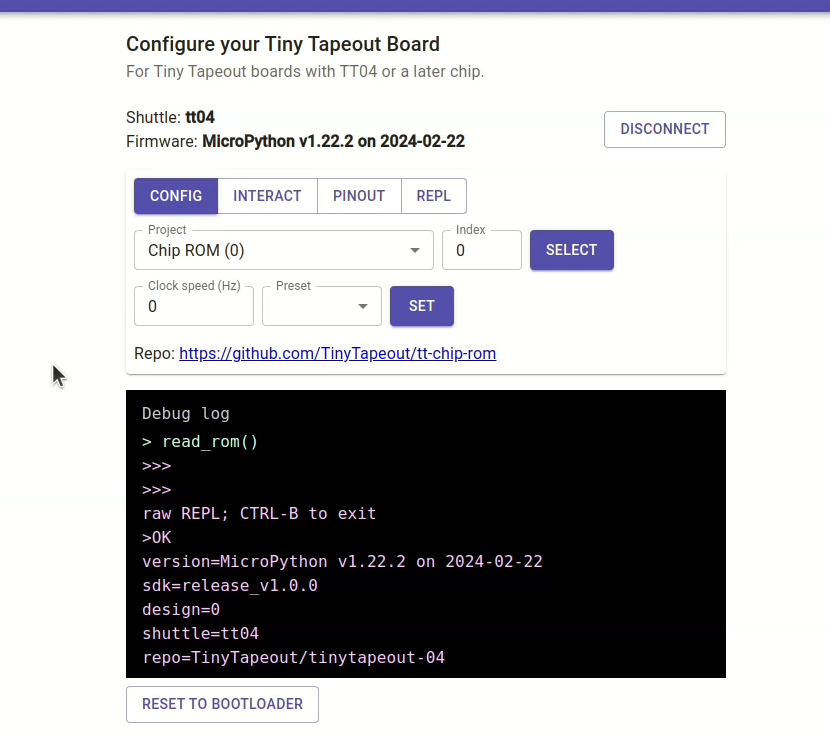
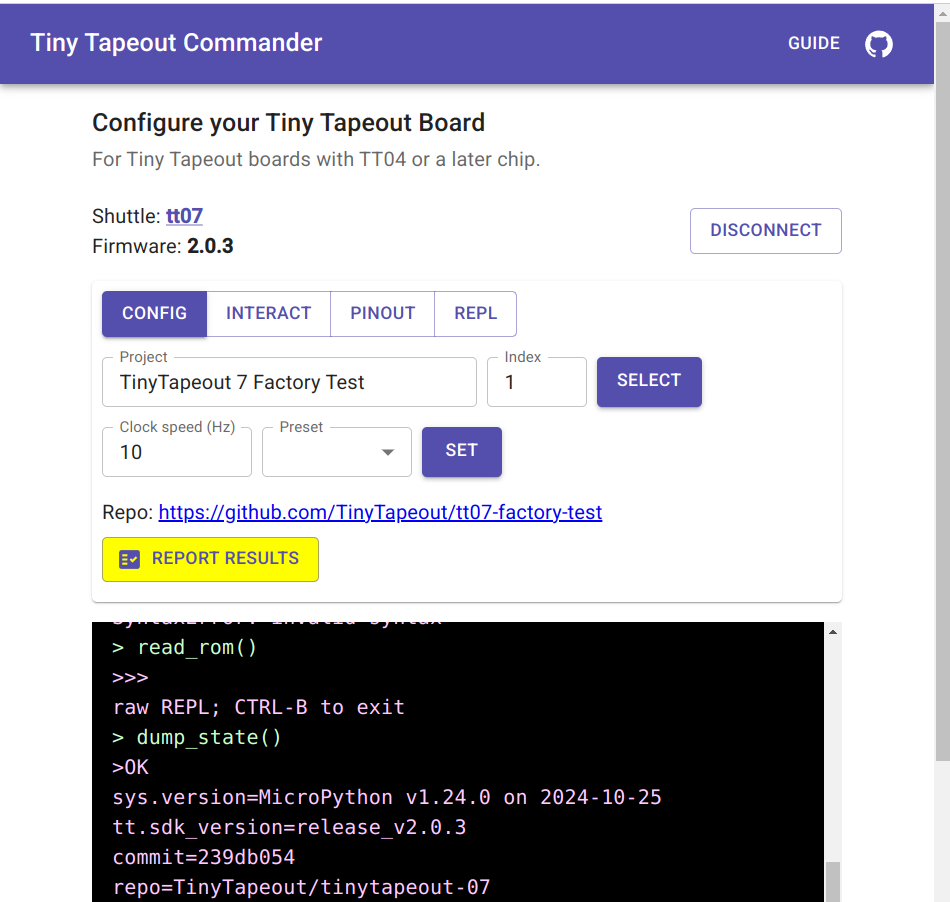
Refresh of stale wording and imagery for getting started guide

diff --git a/content/guides/get-started-demoboard/_index.md b/content/guides/get-started-demoboard/_index.md
@@ -6,7 +6,6 @@ weight: 50
 ---
 
 
-
 If you've got hold of a TinyTapeout 04/05/06/07 ASIC and demoboard, this quickstart guide will get you going by walking through:
 
  * overview and bring-up;
@@ -14,7 +13,7 @@ If you've got hold of a TinyTapeout 04/05/06/07 ASIC and demoboard, this quickst
  * accessing and using the microPython SDK and filesystem; and
  * easy updates to the OS and SDK.
  
-There's a little video that goes through much of this so you can see it in action
+Here's a little video that goes through much of this so you can see it in action (the board shape has changed a bit since it was recorded, but the functionality is quite similar)
 
 {{< youtube dSuhCZxXQcw >}}
 
@@ -22,23 +21,22 @@ There's a little video that goes through much of this so you can see it in actio
 
 ### Overview and bring-up
 
-
-{{< figure src="images/tt04db-render.png" title="TT04 demoboard" >}}
-
-
-The TT04 ASIC includes [143 different digital designs](https://tinytapeout.com/runs/tt04/#all-projects), any of which may be *enabled* so that you can send and receive information to it using whichever combination of the
+The Tiny Tapeout ASICs include hundreds of different designs--[143 on TT04](https://tinytapeout.com/runs/tt04/#all-projects) and [369 on TT09](https://tinytapeout.com/runs/tt09/)--any of which present on the chip you have may be *enabled* so that you can send and receive information to it using whichever combination of the
 
  * 8 input;
- * 8 output; and
+ * 8 output;
  * 8 bi-directional 
 
-pins that specific project is using.
+pins that specific project is using.  Since [TT06](https://tinytapeout.com/runs/tt06/), there are also up to 6 [analog](https://tinytapeout.com/specs/analog/) support for analog and mixed signal, users.
+
+
+{{< figure src="images/tt07db.jpg" title="TT07 demoboard" >}}
 
 The ASIC comes installed on a [carrier PCB](https://github.com/tinytapeout/breakout-pcb) which is itself installed on the [TT Demoboard](https://github.com/TinyTapeout/tt-demo-pcb#tinytapeout-demo-board)
 
-The demoboard is designed to allow for interaction with design either through the on-board input DIP switches and 7-segment display, or with external circuits through the various pin headers and PMODs on the board. Having the ASIC on a carrier, rather than directly on the demoboard, leaves the adventurous free to design their own custom PCB and easily migrate the chip.
+The demoboard is designed to allow for interaction with design either through the on-board input DIP switches and 7-segment display, or with external circuits through the various pin and PMOD headers on the board. Having the ASIC on a carrier, rather than directly on the demoboard, leaves the adventurous free to design their own custom PCB and easily migrate the chip.
 
-The demoboard has a number of headers for interaction and expansion.  The "PMODs" follow the [digilent PMOD spec and spacing](https://digilent.com/reference/pmod/start) and make it pretty simple to create extensions to interact with designs.
+The demoboard has a number of headers for interaction and expansion.  The "PMODs" follow the [digilent PMOD spec and spacing](https://digilent.com/reference/pmod/start) and make it pretty simple to create extensions to interact with designs.  Some of these, like for [VGA Output](https://tinytapeout.com/specs/pinouts/#vga-output), [Gamepad Controllers](https://tinytapeout.com/specs/pinouts/#vga-output) are listed on the [pinout specs](https://tinytapeout.com/specs/pinouts/) page.
 
 ## Power
 
@@ -50,9 +48,9 @@ All the I/O expects 3.3V logic levels, so the 5V coming in through the USB recep
 
 After inspecting the boards for damage, and ensuring the carrier board is well seated on the demoboard, give the system 5V through the USB connector.
 
-Operating normally, the power LEDs on the top right of the demoboard will light up (though the 1v8 may be a bit dim), and the letter "t" will hold on the 7-segment for a moment, then go through a speedy little sequence and finally start toggling the segments in a binary counter dance (see the video for an example).
+Operating normally, the power LEDs on the top right of the demoboard will light up, and the letter "t" will hold on the 7-segment for a moment, then go through a speedy little sequence and finally start toggling the segments in a binary counter dance (see the video for an example).
 
-This is the [factory test](https://tinytapeout.com/runs/tt04/001/) project, loaded by default, being ticked and shows the system is alive.
+This is the [factory test](https://tinytapeout.com/runs/tt07/tt_um_factory_test) project, loaded by default, being ticked and shows the system is alive.
 
 If you have a way to monitor power use, you should see a draw of around 180-200 milliAmps, on the 5V supply and not much more.
 
@@ -61,9 +59,9 @@ If you have a way to monitor power use, you should see a draw of around 180-200 
 
 Maybe you'd like to enable a project other than the factory test?  
 
-TT04 introduced a brand new, and much faster, way to direct input and output to designs on the chip.  This multiplexer (MUX), needs to be told just which project you'd like to interact with.
+Since TT04 a multiplexer on the chip decides which projects are powered and enabled to communicate through the I/O. This MUX, needs to be told just which project you'd like to interact with.
 
-To handle most of the details, we put a microcontroller (an RP2040, like on the [Raspberry Pi Pico](https://www.raspberrypi.com/documentation/microcontrollers/raspberry-pi-pico.html) on the demoboard.  But you still have to somehow tell it which project you'd like to enable.
+To handle most of the details, we put a microcontroller (an RP2040, like in the [Raspberry Pi Pico](https://www.raspberrypi.com/documentation/microcontrollers/raspberry-pi-pico.html)) on the demoboard.  But you still have to somehow tell it which project you'd like to enable.
 
 There are a few ways to do this, the commander app being the easiest, but there's also a config.ini file and a whole Python SDK you can use.  All are described below.
 
@@ -71,7 +69,7 @@ There are a few ways to do this, the commander app being the easiest, but there'
 
 The commander app lets you interact with and configure the demoboard from a web browser.
 
-It uses the web serial API, so is currently limited to either [Chrome](https://www.google.com/search?q=chrome+browser), [Edge](https://www.microsoft.com/en-us/edge) or [Opera](https://www.opera.com/) .
+It uses the web serial API, so is currently limited to either [Chrome](https://www.google.com/search?q=chrome+browser), [Edge](https://www.microsoft.com/en-us/edge), [Opera](https://www.opera.com/) and [Brave](https://brave.com/).
 
 
 With the demoboard USB plugged into a computer, use one of those browsers to access [https://commander.tinytapeout.com/](https://commander.tinytapeout.com/).
@@ -88,11 +86,11 @@ The one marked "Board connected in FS mode" or similar is the one you want.  Sel
 If all went well you'll see something like this:
 {{< figure src="images/commander-connected.png" title="Commander connected" >}}
 
-With the shuttle being set to *tt04*.  Some debug output is visible in the black box at the bottom, where you can glean more info, such as the SDK release detected.
+With the shuttle being set to *tt07* (or whichever chip you actually have on hand).  Some debug output is visible in the black box at the bottom, where you can glean more info, such as the SDK release detected.
 
 To activate a project:
 
-   1)  Click the project drop-down and find the project you want
+   1)  Click the project drop-down and find the project you want.  All the projects for the detected chip shuttle will be present
  
 {{< figure src="images/commander-projectselect.png" title="Commander project selection" >}}
 
@@ -174,8 +172,7 @@ ttboard.project_mux: Enable design wokwi_traffic_light
 
 ```
 
-And tab-completion will work, too: `tt.shuttle.<TAB><TAB>` will list all the attributes, including all the projects you can enable.
-
+And tab-completion should work, too: `tt.shuttle.tt_um<TAB><TAB>` will list all the projects you can enable.
 
 
 You can control the auto-clocking using
@@ -216,6 +213,13 @@ print(f'Output from project is now: {tt.uo_out}')
 # ...
 ```
 
+## cocotb tests
+
+You're encouraged to create [cocotb](https://www.cocotb.org/) testbenches when creating a design.  If you took the time to do that, I have great news: it's fairly easy to re-use these tests and run them, pretty much as-is, against the actual chip with hardware-in-the-loop.
+
+To do this, the installed SDK includes [microcotb](https://github.com/psychogenic/microcotb), a miny version of cocotb that can run right on the demo boards.  There are some [examples included in the SDK](https://github.com/TinyTapeout/tt-micropython-firmware/tree/main/src/examples) and a [video is available](https://www.youtube.com/watch?v=g8cmUiP3KGQ) that goes over using the library.
+
+
 Other than that, the [SDK documentation](https://github.com/TinyTapeout/tt-micropython-firmware#tt4-micropython-sdk) and various [sample tests](https://github.com/TinyTapeout/tt-micropython-firmware/tree/main/src/examples) will be your best guides.
 
 
@@ -230,7 +234,7 @@ The important things on the filesystem are:
   * config.ini: default startup and project-specific configuration
   * main.py: runs on boot
   * ttboard/ has all the SDK modules
-  * shuttles/ contains the design listings as JSON files for the chip
+  * shuttles/ contains the design listings as both JSON files and more efficient binary blobs for the chip
 
 Any standard means of accessing the micropython FS should work.  [rshell](https://pypi.org/project/rshell/) may be used but is lacking in some regards.  Another option is [mpy-repl-tool](https://pypi.org/project/mpy-repl-tool/).  
 
@@ -286,11 +290,11 @@ $ tt push config.ini /
 
 The complete directions for OS updates are part of the [SDK documentation, under Installation](https://github.com/TinyTapeout/tt-micropython-firmware#installation) but really the process is simply to:
 
-  * download anything on the FS that you wish to preserve (it will all be overwritten by this process)
+  * download anything on the filesystem that you wish to preserve (for instance, if you've customized the [config.ini](https://github.com/TinyTapeout/tt-micropython-firmware?tab=readme-ov-file#initialization) it would be overwritten by this process)
   * get the UF2 file for the [latest SDK release](https://github.com/TinyTapeout/tt-micropython-firmware/releases)
   * hold the BOOT button on the demoboard while connecting to USB
   * release the BOOT button, see the RPI-RP2 drive appear
-  * copy the UF2 file, e.g. `tt-demo-rp2040-v1.0.0.uf2`, to the RPI-RP2 drive
+  * copy the UF2 file, e.g. `tt-demo-rp2040-v2.0.3.uf2`, to the RPI-RP2 drive
   * wait until the drive disappears
   
 At this point, the entire flash will have be re-written with a fresh OS, SDK and supporting files.
